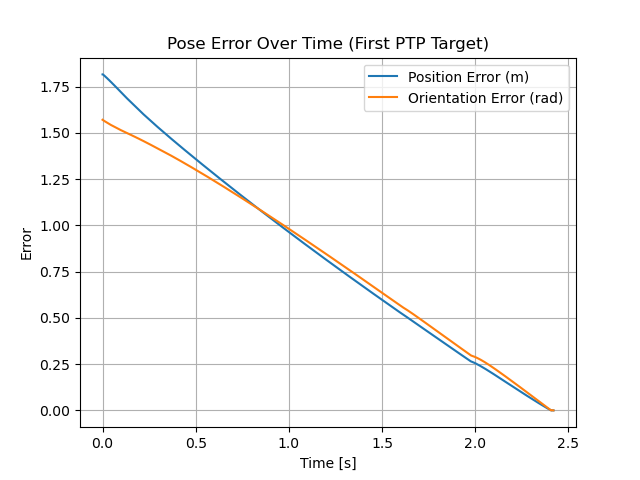
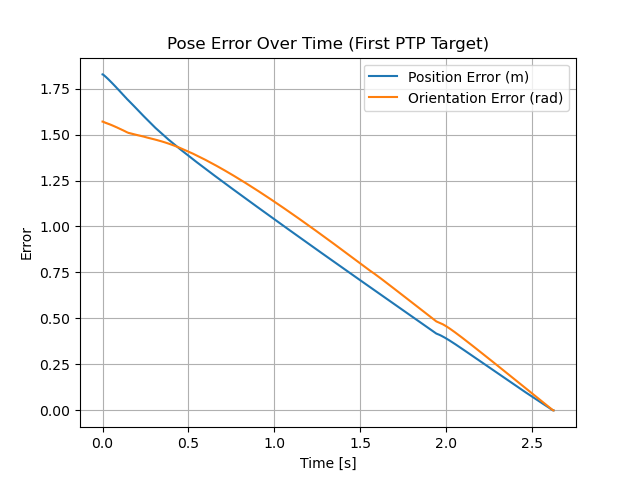
comments

diff --git a/Controller.py b/Controller.py
@@ -453,6 +453,8 @@ class Controller:
         # --- Hold if not running ---
         if not self.running_traj:
 
+            #this is to send small velocity commands so that the robot remains in position before running the trajectory
+
             J_cdpr = CableJacobian(self.x_mes, self.model_dict)
             cable_vel = -J_cdpr @ (0.001*(qin_base-self.sim.get_full_q_vector()[:6]))
             #print(cable_vel)
@@ -472,13 +474,16 @@ class Controller:
         fext = np.zeros(6)
         fext[2] = -60 * 9.81  # Z gravity
 
-        success_T, tensions = bary_sol(q[:6], fext, self.model_dict)
+        success_T, tensions = bary_sol(q[:6], fext, self.model_dict) #this function checks if there is a valid tension distribution of the cables for a given pose of the mobile platform
         #print(success_T)
         if not success_T:
+            #if an invalid tension distribution is detected the movement will stop
             print("Invalid tension")
             print(tensions)
             self.running_traj = False
             return
+        
+        #forward kinematics of the system        
         #T_current = self.mujoco_forward_kinematics(q)
         T_current = self.compute_total_forward_kinematics(q)
         pos_current = T_current[:3, 3]
@@ -519,7 +524,7 @@ class Controller:
             t_now = self.sim.sim_data.time - self._ptp_start_time
 
 
-
+            #storing the error norm on a list to plot
             self.error_history.append([pos_err_norm, ang_err_norm])
             self.time_history.append(t_now)
         
@@ -536,7 +541,7 @@ class Controller:
 
         #print("")
 
-
+        #convergence check
         if pos_err_norm < 0.0001 and ang_err_norm < 0.0001:
             #print("[INFO] ✅ Converged.")
             self.vel_cmd[:9] = 0.0
@@ -550,7 +555,7 @@ class Controller:
             self._ik_converged = False
 
 
-
+        
         # --- Step 4: Solve QP to compute delta_q ---
         J = self.geometric_jacobian(q)
         #J = self.mujoco_jacobian(self.model, self.data, q)
@@ -558,7 +563,7 @@ class Controller:
         #print(f"[Jacobian] Condition number: {cond:.2e}")
         #print("")
 
-  
+        #different values of the proportional gain tested
         #Kp = np.diag([1, 1, 1, 1, 1, 1])
         #Kp = np.diag([0.5, 0.5, 0.5, 0.5, 0.5, 0.5])
         Kp = np.diag([1.5, 1.5, 1.5, 1.5, 1.5, 1.5])
@@ -571,13 +576,14 @@ class Controller:
         desired_twist = Kp@pose_error 
 
 
-
+        #normalize the desired velocity to make sure the end effector is able to reach the target, otherwise it would get too close but never fully converge
         twist_norm = np.linalg.norm(desired_twist)
         if twist_norm > 1e-6:  # avoid division by zero
             desired_twist_normalized = desired_twist / twist_norm
         else:
             desired_twist_normalized = desired_twist * 0  # or leave it unchanged
 
+        #added weight to penaliwe movement in certain joints of the system, in this case the rotation components of the moving platform, can be tuned
         W_joint = np.diag([0, 0, 0, 10, 10, 10, 0, 0, 0, 0, 0, 0, 0])
 
         H = J.T @ J +W_joint
@@ -641,7 +647,7 @@ class Controller:
         ub = np.maximum(lb, ub)
 
         
-
+        #secondary objective to make sure that the system tries to stay in a centered position between the joint limits
         epsilon = 0.01
         P = np.eye(J.shape[1]) - np.linalg.pinv(J) @ J
         q0 = 0.5 * (q_min + q_max)           # preferred posture
@@ -675,6 +681,45 @@ class Controller:
         # Clip arm joint velocities
         delta_q = np.clip(delta_q, -vel_min, vel_max)
         
+        #the following commented section corresponds to an inverse kinematic solver using only the pseudoinverse; which is used to compare
+        """""
+        # --- Step 4 (REPLACEMENT): PSEUDOINVERSE IK (no QP) ---
+
+        J = self.geometric_jacobian(q)  
+        Kp = np.diag([1.5, 1.5, 1.5, 1.5, 1.5, 1.5])
+
+        # Use the un-normalized twist so the gain Kp sets the scale
+        desired_twist = Kp @ pose_error  # already computed above; keep as-is
+
+        twist_norm = np.linalg.norm(desired_twist)
+        if twist_norm > 1e-6:  # avoid division by zero
+            desired_twist_normalized = desired_twist / twist_norm
+        else:
+            desired_twist_normalized = desired_twist * 0  # or leave it unchanged
+
+        # Damped least-squares pseudoinverse: J^+ = J^T (J J^T + λ^2 I)^(-1)
+        lam = 1e-3  # small damping; increase (e.g., 1e-2) if near-singular
+        JJt = J @ J.T
+        J_pinv = J.T @ np.linalg.inv(JJt + (lam**2) * np.eye(J.shape[0]))
+
+        # Joint velocities from task twist
+        joint_velocities = J_pinv @ desired_twist_normalized
+
+        # --- Joint velocity limits ---
+        base_vel_min = np.array([-1, -1, -1, -0, -0, -0])
+        orb_vel_min = np.array([-0.7])
+        arm_vel_min = np.array([-1, -1, -1, -1, -1, -1])
+        vel_min = np.concatenate((base_vel_min,orb_vel_min,arm_vel_min))
+
+        base_vel_max = np.array([1, 1, 1, 0, 0, 0])
+        orb_vel_max = np.array([0.7])
+        arm_vel_max = np.array([1, 1, 1, 1, 1, 1])
+        vel_max = np.concatenate((base_vel_max,orb_vel_max,arm_vel_max))
+
+        # Enforce simple velocity limits by clipping (keeps your arrays above)
+        joint_velocities = np.maximum(joint_velocities, vel_min)
+        joint_velocities = np.minimum(joint_velocities, vel_max)
+        """""
         
 
         # --- CDPR and arm ---
@@ -702,7 +747,7 @@ class Controller:
 
 
     
-  
+    #function that executes the discretized trajectory when the option "disc" is chosen at the start, needs to be revised 
     def executeTrajectory(self, t, points, sim):
         self.sim = sim
         self.debug_mode = True

diff --git a/main.py b/main.py
@@ -12,16 +12,19 @@ matplotlib.use('Agg')
 import matplotlib.pyplot as plt
 
 
-
+#this function is to run the point to point test which is used when "ptp" is selected
 def run_point_to_point_test(sim, controller, points, hold_time=0.2):
 
-    controller.error_history = []
-    controller.time_history = []
+    #controller.error_history = []
+    #controller.time_history = []
     controller._ptp_start_time = None
     
 
     for i, pt in enumerate(points):
         print(f"\n[Target {i}] Going to:", pt)
+
+        controller.error_history = []
+        controller.time_history = []
 
         controller.update_targ(pt, np.zeros(6))
         controller.running_traj = True
@@ -52,6 +55,7 @@ def run_point_to_point_test(sim, controller, points, hold_time=0.2):
                 print("reached")
                 reached = True
                 reached_time = sim.sim_data.time
+                
                 print("moving towards: ",points)
 
                 
@@ -67,27 +71,28 @@ def run_point_to_point_test(sim, controller, points, hold_time=0.2):
         #        sleep(0.01)
 
         controller.running_traj = False
+        controller._ptp_start_time = None
         print(f"[Reached] Target {i}")
 
         
 
-        if i == 0:
+        #if i == 0:
             
 
-            errors = np.array(controller.error_history)
-            times = np.array(controller.time_history)
+        errors = np.array(controller.error_history)
+        times = np.array(controller.time_history)
 
-            if errors.ndim == 2 and len(times) == len(errors):
-                plt.figure()
-                plt.plot(times, errors[:, 0], label="Position Error (m)")
-                plt.plot(times, errors[:, 1], label="Orientation Error (rad)")
-                plt.xlabel("Time [s]")
-                plt.ylabel("Error")
-                plt.title("Pose Error Over Time (First PTP Target)")
-                plt.grid(True)
-                plt.legend()
-                plt.savefig("pose_error_ptp_0.png")
-                print("[INFO] Plot saved to pose_error_ptp_0.png")
+        if errors.ndim == 2 and len(times) == len(errors):
+            plt.figure()
+            plt.plot(times, errors[:, 0], label="Position Error (m)")
+            plt.plot(times, errors[:, 1], label="Orientation Error (rad)")
+            plt.xlabel("Time [s]")
+            plt.ylabel("Error")
+            plt.title(f"Pose Error Over Time (Target {i+1})")
+            plt.grid(True)
+            plt.legend()
+            plt.savefig(f"pose_error_ptp_{i+1}.png")
+            print(f"[INFO] Plot saved to pose_error_ptp_{i+1}.png")
 
 
 
@@ -120,12 +125,15 @@ def commands(sim:Sim):
                 print("invalid format")
         
         elif cmd == "traj":
-            t = np.array([3,6,9])
+            t = np.array([3,6,9,12,15])
+
+            #the targets that the end effector would reach
             pts = np.array([#[1.738,-0.250,0.730,-1.571,0,-2.142],
                             [0,0,0.5,0,np.pi,0],
-                            [1,0,0.5,0,np.pi,0],
-                            [-1,0.5,0.5,0,np.pi,0],
-                            [0,1,0.5,0,np.pi,0],
+                            [1,0,0.5,0,np.pi+1,0],
+                            [-1,0.5,0.5,-1,np.pi,0],
+                            [0,1,0.5,1,np.pi,0],
+                            [0,0,0.5,0,np.pi,0]
                             #[0,0,1.5,0,0,0],
                             #[0,1,1,0,0,0],
                             #[0,0,1,0,0,0]

diff --git a/README.md b/README.md
@@ -9,3 +9,18 @@ Once it launches, an input will appear in the terminal. Type `traj` to begin tra
 It will then ask for a type: `ptp` runs a direct point-to-point trajectory, while `disc` discretizes and interpolates between the points. The main control logic is in `Controller.py`, in the `update_cmd()` function, which handles QP-based inverse kinematics and velocity command generation. 
 
 The simulation loop is handled by the `Sim` class in `Sim.py`, which launches the viewer, collects sensor data, steps the simulation, and passes information to the controller.
+
+General notes on adding a gripper to the end effector
+------------------------------------------------
+
+The current model ends at the tool frame, the ee_site on the file ur10_arm.xml . To integrate a gripper,
+the following generic steps apply (independent of gripper type):
+
+
+- Define a new body attached to the tool frame as the gripper base, on the ur10_arm.xml file.
+- Add the geometry/joints required for the chosen gripper mechanism
+    (e.g. hinge joints (revolute joints)for jaws, slide joint (prismatic joints)for a linear slider,
+    etc.). A damping could be added in the joint configuration, which will act as viscuous friction. This parameter can be tuned
+- Include corresponding actuators (position, velocity, or torque)
+    to drive these joints in the file cdpr.xml. When setting a velocity actuator, the main components to tune there is kv, which is tied to the responsiveness of the joint.
+
